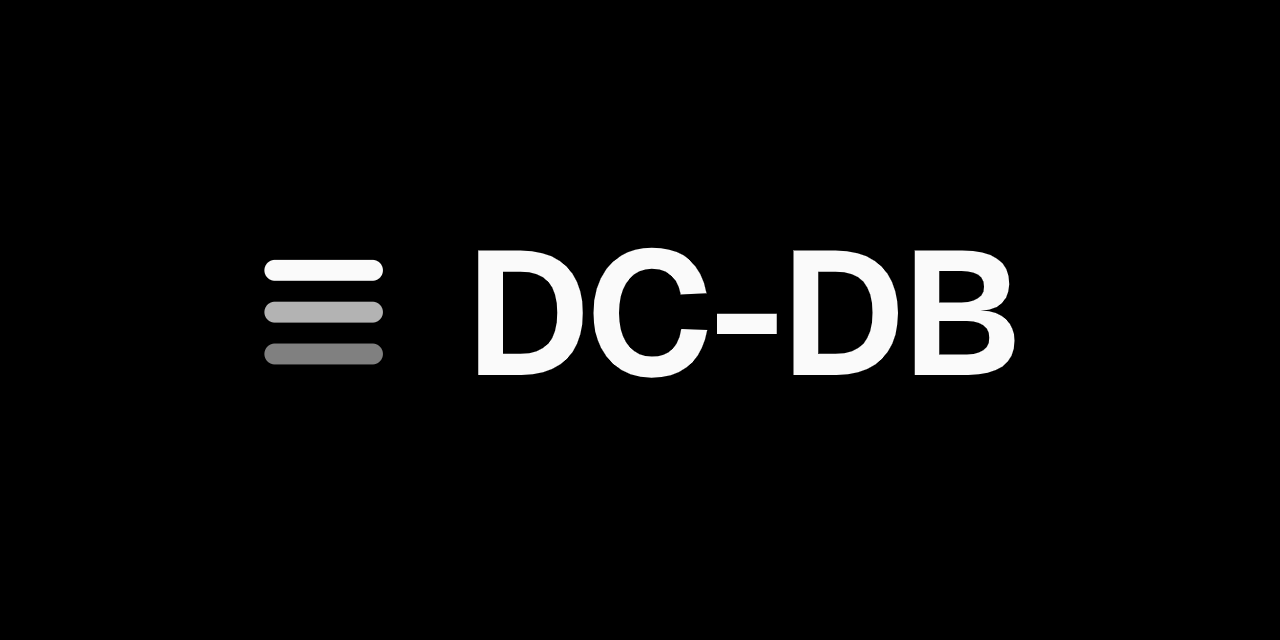
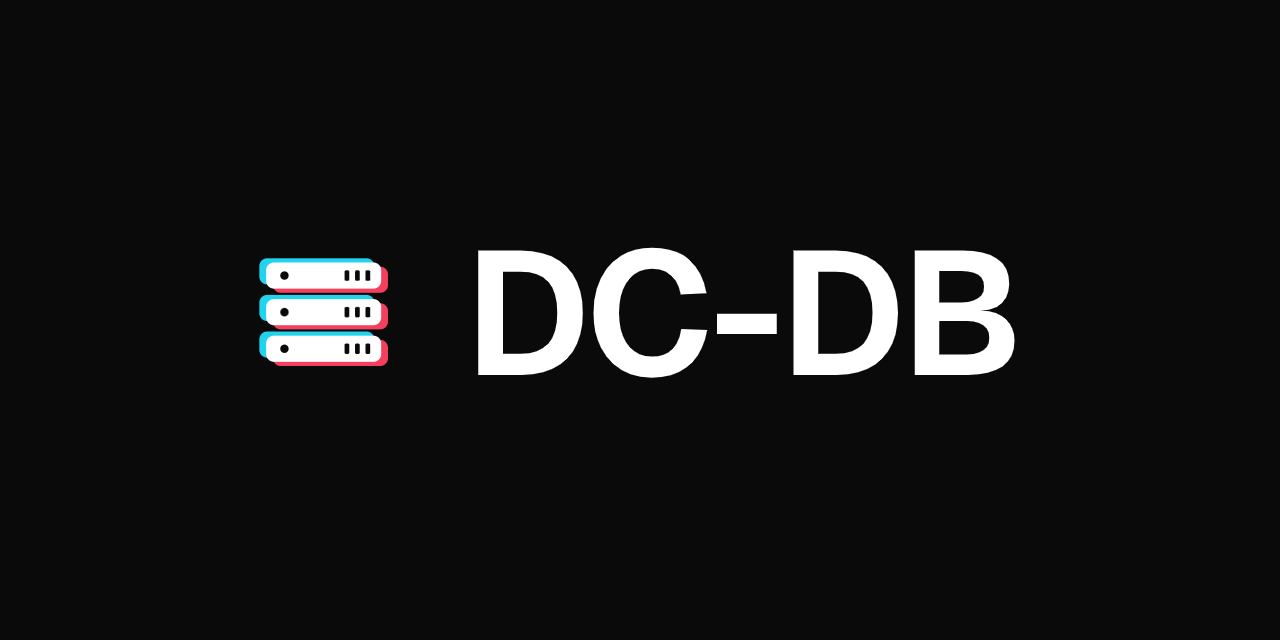
feat(brand): restore layered server blade identity

Changed region(s): [[0.1875, 0.4062, 0.3125, 0.5938]]

diff --git a/web/src/styles.css b/web/src/styles.css
@@ -6,8 +6,10 @@
   --surface: #ffffff;
   --text: #0a0a0a;
   --brand-mark-bg: #ffffff;
-  --brand-mark-mid: #808080;
-  --brand-mark-soft: #b3b3b3;
+  --brand-mark-front: #0a0a0a;
+  --brand-mark-detail: #ffffff;
+  --brand-mark-cyan: #22d3ee;
+  --brand-mark-coral: #f43f5e;
   --muted: #737373;
   --line: #e5e5e5;
   --primary: #171717;
@@ -74,9 +76,11 @@ html[data-theme="dark"] {
   --bg: #0a0a0a;
   --surface: #0a0a0a;
   --text: #fafafa;
-  --brand-mark-bg: #000000;
-  --brand-mark-mid: #b3b3b3;
-  --brand-mark-soft: #808080;
+  --brand-mark-bg: #0a0a0a;
+  --brand-mark-front: #fafafa;
+  --brand-mark-detail: #0a0a0a;
+  --brand-mark-cyan: #22d3ee;
+  --brand-mark-coral: #f43f5e;
   --muted: #a1a1a1;
   --line: rgba(255, 255, 255, .1);
   --primary: #e5e5e5;

diff --git a/web/src/components/Wordmark.tsx b/web/src/components/Wordmark.tsx
@@ -2,7 +2,7 @@ export function Wordmark() {
   return (
     <span className="wordmark" role="img" aria-label="DC-DB">
       <svg className="wordmark-symbol" viewBox="0 0 64 64" aria-hidden="true" focusable="false">
-        <use href="/brand/mark.svg?v=server-6#dc-db-symbol" />
+        <use href="/brand/mark.svg?v=server-15#dc-db-symbol" />
       </svg>
       <span className="wordmark-text" aria-hidden="true">DC-DB</span>
     </span>

diff --git a/web/index.html b/web/index.html
@@ -4,7 +4,7 @@
     <meta charset="UTF-8" />
     <meta name="viewport" content="width=device-width, initial-scale=1.0" />
     <meta name="theme-color" content="#ffffff" />
-    <link rel="icon" type="image/svg+xml" href="/logo.svg?v=dc-db-13" sizes="any" />
+    <link rel="icon" type="image/svg+xml" href="/logo.svg?v=dc-db-22" sizes="any" />
     <script>
       try {
         const saved = localStorage.getItem('dc-db-theme');

diff --git a/docs/brand.md b/docs/brand.md
@@ -1,6 +1,6 @@
 # DC-DB 品牌标识
 
-正式标志基于数据中心栏目已有的 Lucide `Building2` 图形；当前依赖中该名称是 [`building-complex`](https://lucide.dev/icons/building-complex) 的别名。图形最终只保留三条等长、等距的横杠，抽象为服务器插槽；三条横杠以黑、灰、浅灰（暗色主题为白、浅灰、灰）区分层级，不再保留外围建筑轮廓。该图形是 Lucide 的修改版，不作为项目原创图形声明；与大写 `DC-DB` 字标组成标识。
+正式标志是三台完全相同的 1U 服务器刀片。青色层向左上偏移，珊瑚红层向右下偏移，正面使用黑色或白色，形成平面层叠的立体效果。图形不使用第三方品牌图形，也不把颜色当作实时状态。
 
 ## 文件与用途
 
@@ -8,27 +8,25 @@
 
 | 文件 | 用途 |
 | --- | --- |
-| [`mark.svg`](../web/public/brand/mark.svg) | 随系统主题切换黑白实底的图形母版；包含可复用的 `dc-db-symbol` |
-| [`logo-light.svg`](../web/public/brand/logo-light.svg) | 整幅白底、三条灰阶横杠与字标，用于浅色主题 |
-| [`logo-dark.svg`](../web/public/brand/logo-dark.svg) | 整幅黑底、三条灰阶横杠与字标，用于暗色主题 |
-| [`avatar.svg`](../web/public/brand/avatar.svg) | 纯黑底（`#000000`）、白/浅灰/灰三条横杠的头像源文件 |
+| [`mark.svg`](../web/public/brand/mark.svg) | 随系统主题切换背景和正面的图形母版；包含可复用的 `dc-db-symbol` |
+| [`logo-light.svg`](../web/public/brand/logo-light.svg) | 整幅白底、黑色刀片与字标，用于浅色主题 |
+| [`logo-dark.svg`](../web/public/brand/logo-dark.svg) | 整幅黑底、白色刀片与字标，用于暗色主题 |
+| [`avatar.svg`](../web/public/brand/avatar.svg) | 纯黑底、白色刀片与青色/珊瑚色错位层的头像源文件 |
 | [`avatar-512.png`](../web/public/brand/avatar-512.png) | 512×512 PNG，可用于 GitHub 头像上传 |
-| [`social-preview.svg`](../web/public/brand/social-preview.svg) | 纯黑底、三条灰阶横杠与字标的仓库分享预览源文件 |
+| [`social-preview.svg`](../web/public/brand/social-preview.svg) | 纯黑底、白色刀片、青色/珊瑚色错位层与字标的仓库分享预览源文件 |
 | [`social-preview.png`](../web/public/brand/social-preview.png) | 1280×640 PNG，可用于 GitHub 仓库 Social preview |
 
 SVG 是可缩放、可编辑的主版本。PNG 是针对上传场景的导出文件：GitHub 的[头像格式说明](https://docs.github.com/en/account-and-profile/reference/profile-reference)列出 PNG、JPG 和 GIF；[仓库分享预览](https://docs.github.com/en/repositories/managing-your-repositorys-settings-and-features/customizing-your-repository/customizing-your-repositorys-social-media-preview)推荐 1280×640，且文件小于 1 MB。PNG 素材已经按这些尺寸导出；头像属于账号或组织，仓库分享预览则在仓库设置中配置。
 
 ## 系统与文档使用
 
-- 登录页和左侧栏通过 `Wordmark.tsx` 组合图形和字标，图形从 `mark.svg#dc-db-symbol` 引用，保持单一几何来源；文字提供可访问名称，装饰图形对读屏隐藏。系统引用的图形由 `styles.css` 中的 `--brand-mark-bg`、`--brand-mark-mid`、`--brand-mark-soft` 三个变量跟随用户选择的主题，顶部横线使用 `currentColor`。
-- 图形母版画布为 64×64，原 Lucide 的 24×24 坐标统一缩放 `64/24`；三条横杠线宽为 `3`（24×24 坐标），使用圆头端点，形成饱满的胶囊形插槽。横杠分别位于 `y=6/12/18`，均从 `x=5` 延伸至 `x=19`。
-- 品牌只使用中性色，灰阶差异仅用于三条横杠。浅色主题为白底，三条横杠由上到下为 `currentColor`、`#808080`、`#b3b3b3`；暗色主题为黑底，横杠依次为 `currentColor`、`#b3b3b3`、`#808080`。独立 SVG 的字标使用深色 `#171717` 或白色 `#fafafa`；系统中的横杠跟随 `--text`、`--brand-mark-mid` 和 `--brand-mark-soft`。
+- 登录页和左侧栏通过 `Wordmark.tsx` 组合图形和字标，图形从 `mark.svg#dc-db-symbol` 引用，保持单一几何来源；文字提供可访问名称，装饰图形对读屏隐藏。系统引用的图形由 `styles.css` 中的 `--brand-mark-bg`、`--brand-mark-front`、`--brand-mark-detail`、`--brand-mark-cyan`、`--brand-mark-coral` 跟随用户选择的主题。
+- 图形母版画布为 64×64。三台刀片位于 `x=10..54`，高为 `10`，圆角为 `3`，纵向起点为 `13/27/41`；每台带一个状态灯和三个散热槽。青色层偏移 `(-2.6, -1.6)`，珊瑚层偏移 `(2.6, 1.6)`，正面层不偏移。
+- 浅色主题使用白底、黑色正面和白色细节；暗色主题使用黑底、白色正面和黑色细节。青色和珊瑚色在两个主题中保持一致，只作为层叠侧边出现。
 - 主版背景使用黑／白实底，不再透明。直接打开 `mark.svg` 或 favicon `logo.svg` 时，通过 `prefers-color-scheme` 跟随系统主题；组合标使用各自固定的整幅白底或黑底，头像和分享素材固定使用纯黑底。
 - GitHub README 使用 `picture` 在浅底和深底组合标之间切换，不依赖外部字体。独立 SVG 的字标已转为路径。
-- 图形单独显示建议不小于 16px；系统品牌区使用约 28px，登录页约 40px。图形周围与字标之间保留清晰间隔，不拉伸、旋转、添加阴影或改变三条横线的比例。
+- 图形单独显示建议不小于 16px；系统品牌区使用约 28px，登录页约 40px。图形周围与字标之间保留清晰间隔，不拉伸、旋转或改变刀片与错位层的比例。
 
 ## 来源与许可
 
-Lucide 图形采用 ISC 许可，版权与许可声明保留在 [`LICENSE-Lucide.txt`](../web/public/brand/LICENSE-Lucide.txt) 及 SVG 注释中，说明见 [Lucide 官方许可](https://lucide.dev/license)。将建筑图形简化为三条横杠，不改变原图形的许可要求，分发时保留对应声明。声明不会显示在 Logo 画面中。
-
-字标使用项目已有的 Geist（650）；独立 SVG 中的 `DC-DB` 已转为路径，不依赖外部字体。字体许可见 [`OFL-Geist.txt`](../web/public/brand/OFL-Geist.txt)。
+图形为 DC-DB 的原创设计，没有复用第三方图标。字标使用项目已有的 Geist（650）；独立 SVG 中的 `DC-DB` 已转为路径，不依赖外部字体。字体许可见 [`OFL-Geist.txt`](../web/public/brand/OFL-Geist.txt)。
